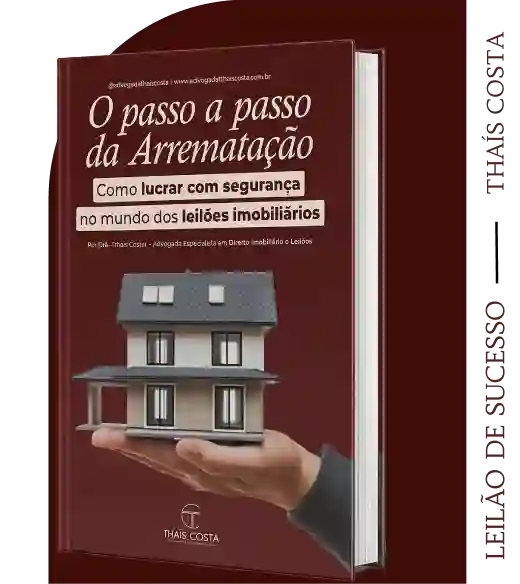
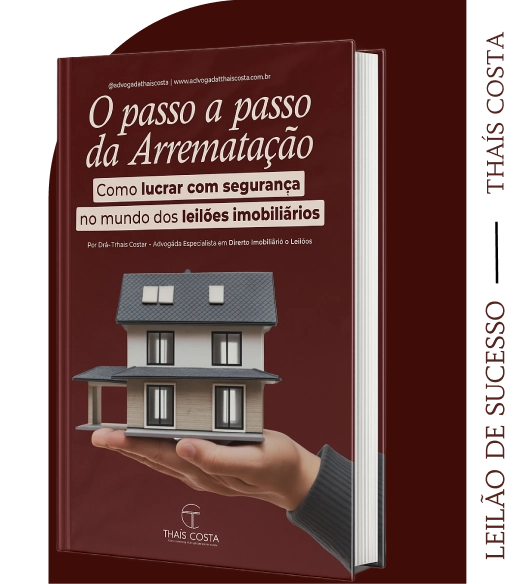
fix: Imagens

diff --git a/index.html b/index.html
@@ -24,6 +24,13 @@
       fetchPriority="high"
     />
 
+    <link
+      rel="preload"
+      as="image"
+      href="/bgHeroInfluencer.webp"
+      fetchPriority="high"
+    />
+
     <title>
       E-book de Leilões e Contratos com Thaís Costa - São Paulo | Aprenda a
       Conquistar Imóveis com Segurança

diff --git a/src/components/sections/lp01/HeroNovaLPV.jsx b/src/components/sections/lp01/HeroNovaLPV.jsx
@@ -32,7 +32,7 @@ function HeroNovaLPV() {
               </i>
 
               <img
-                src="/bgHeroInfluencerBook.webp"
+                src="/bgHeroInfluencer.webp"
                 alt="Imagem do Livro na Seção Início"
                 fetchPriority="high"
                 width="468"
